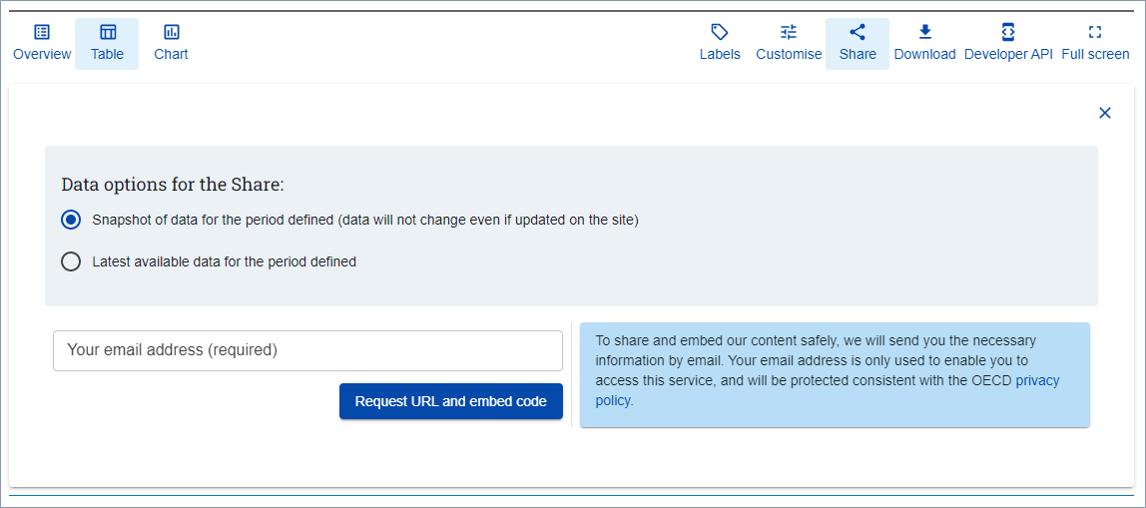
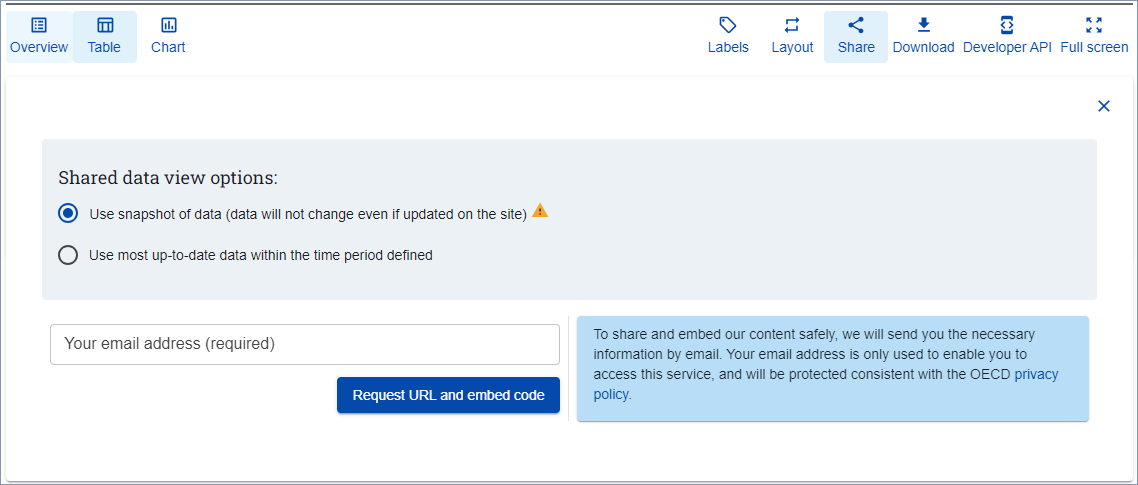
DE share warning message

diff --git a/content/using-de/viewing-data/share/_index.md b/content/using-de/viewing-data/share/_index.md
@@ -29,6 +29,7 @@ keywords: [
 ---
 
 >*Version history:*  
+> Warning message of potential linkage always displayed when authenticated since [June 13, 2024 Release .Stat Suite JS arc](/dotstatsuite-documentation/changelog/#june-13-2024)  
 > Database migration from Redis to Mongo produces longer unique IDs of shared views; in consequence, removal of the ID column from the list of active shared views with [December 20, 2023 Release .Stat Suite JS yay](/dotstatsuite-documentation/changelog/#december-20-2023)  
 > Warning of sharing non-public data introduced with [January 13, 2022 Release .Stat Suite JS 12.0.0](/dotstatsuite-documentation/changelog/#january-13-2022)  
 > Fully refactored and enhanced in order to introduce a better management of all shared objects in a single page with [December 14, 2021 Release .Stat Suite JS 11.0.0](/dotstatsuite-documentation/changelog/#december-14-2021)  
@@ -58,7 +59,7 @@ Once clicked on "Request URL and embed code", the user gets the following messag
 
 ![DE Share request](/dotstatsuite-documentation/images/de-share2.png)
 
-**Note** that, when the user is authenticated and requests to share a snapshot of data that are not publicly available (e.g. a private dataflow triggered from the DLM preview), then a localised warning message indicates that those data will be publicly accessible even though potentially not yet officially and publicly released.
+**Note** that, when the user is authenticated and requests to share a snapshot of data, then a localised warning message indicates that those data will be publicly accessible even though potentially not yet officially and publicly released.
 
 ![DE Share warning snapshot](/dotstatsuite-documentation/images/de-share-snapshot-warning.png)
  
